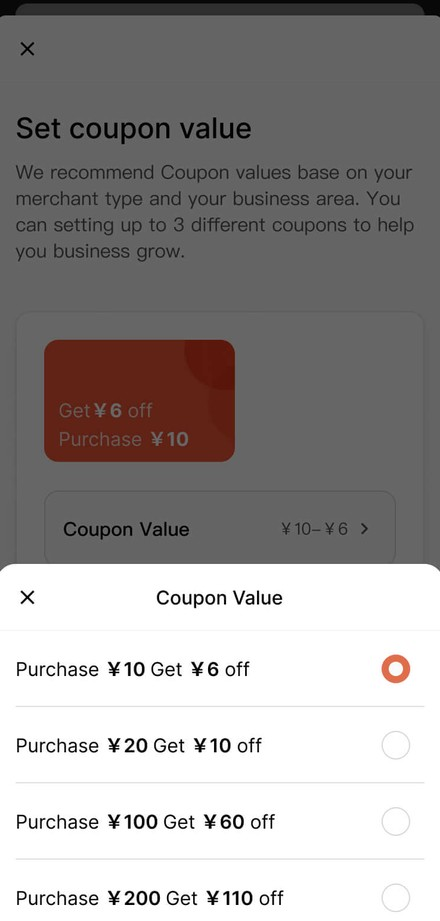
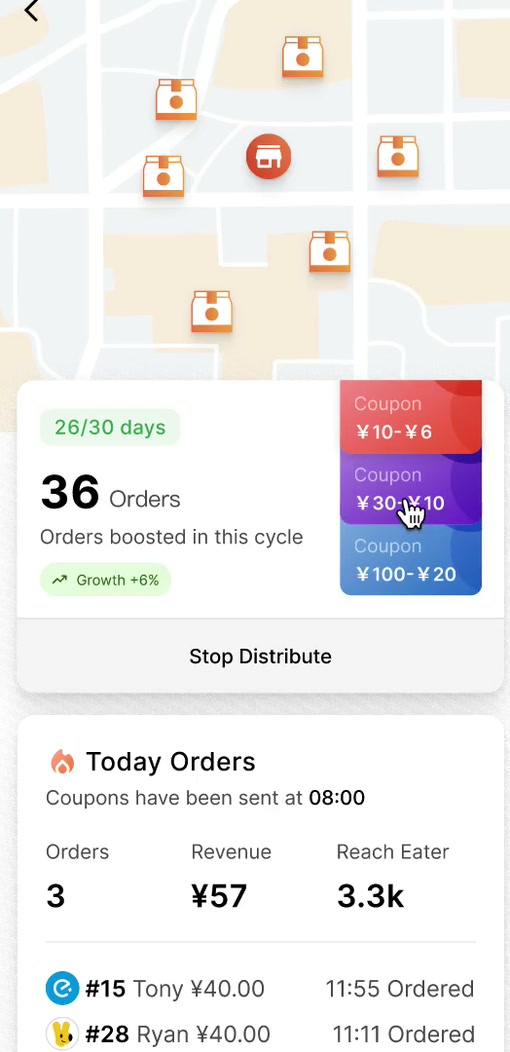
Sculpt TikCode and listing previews in relief

diff --git a/app/components/blueprint/figures.ts b/app/components/blueprint/figures.ts
@@ -370,8 +370,6 @@ function use(p: Palette) {
 
 const TV_SCREEN = "/portfolio/blueprints/tv-screen.jpg";
 const LUTRA_SCREEN = "/portfolio/blueprints/lutra-screen.jpg";
-const TIKCODE_PRINT = "/portfolio/blueprints/tikcode-code-eye.jpg";
-const WISHLIST_STAYS = ["/portfolio/blueprints/wishlist-stay-1.jpg", "/portfolio/blueprints/wishlist-stay-2.jpg"];
 
 const REMOTE_FRAME = {
   pos: [0.9, 0.62, 0.0] as Vec3,
@@ -397,6 +395,33 @@ function plinth(c: Palette): ShapeDef[] {
     { k: "slab", size: [2.9, 1.9], t: 0.1, r: 0.36, pos: [0, 0.05, 0], rot: flat() },
     { k: "slab", size: [2.6, 1.6], t: 0.012, r: 0.26, pos: [0, 0.101, 0], rot: flat(), color: c.mist },
     { k: "slab", size: [3.2, 2.2], t: 0.04, r: 0.46, pos: [0, 0.02, 0], rot: flat(), color: c.lilac },
+  ];
+}
+
+/** A sparse relief of the case study's three Code Eyes and dot pattern. */
+function tikCodeRelief(c: Palette, [x, y, z]: Vec3, pitch: number): ShapeDef[] {
+  const eyes = [[-3, 3], [3, 3], [-3, -3]];
+  const dots = [
+    [-1, 4], [1, 4], [0, 3], [-1, 2], [1, 2], [0, 1], [3, 1],
+    [-4, 0], [-2, 0], [2, 0], [4, 0], [-3, -1], [0, -1], [2, -1],
+    [4, -2], [0, -3], [2, -3], [1, -4], [4, -4],
+  ];
+  return [
+    ...eyes.flatMap(([column, row], index): ShapeDef[] => {
+      const cx = x + column * pitch;
+      const cy = y + row * pitch;
+      return [
+        { k: "slab", size: [2.2 * pitch, 2.2 * pitch], t: 0.18 * pitch, r: 0.41 * pitch,
+          pos: [cx, cy, z + 0.04 * pitch], color: index === 1 ? c.coral : c.lilac },
+        { k: "cyl", r: 0.59 * pitch, h: 0.22 * pitch, rot: FACE,
+          pos: [cx, cy, z + 0.21 * pitch], color: c.inky },
+      ];
+    }),
+    ...dots.map(([column, row], index): ShapeDef => ({
+      k: "cyl", r: 0.285 * pitch, h: 0.24 * pitch, rot: FACE,
+      pos: [x + column * pitch, y + row * pitch, z + 0.08 * pitch],
+      color: index === 4 || index === 15 ? c.coral : c.inky,
+    })),
   ];
 }
 
@@ -604,22 +629,13 @@ const BUILDERS: [Palette, (c: Palette) => Omit<FigureDef, "palette">][] = [
           finish: "screen",
           frame: TV_ANGLE,
           shapes: [
-            // A dark lip around the panel, then the picture.
-            {
-              k: "slab",
-              size: [2.16, 1.2325],
-              t: 0.003,
-              r: 0.074,
-              pos: [0, 1.465, 0.0066],
-              color: INKY,
-              finish: "soft",
-            },
+            // The picture meets the physical bezel directly.
             {
               k: "slab",
               size: [2.12, 1.1925],
               t: 0.006,
               r: 0.054,
-              pos: [0, 1.465, 0.009],
+              pos: [0, 1.465, 0.0065],
               map: TV_SCREEN,
             },
             {
@@ -916,18 +932,9 @@ const BUILDERS: [Palette, (c: Palette) => Omit<FigureDef, "palette">][] = [
             {
               k: "slab",
               size: [0.68, 1.402],
-              t: 0.003,
-              r: 0.115,
-              pos: [0, 0.741, 0.0615],
-              color: INKY,
-              finish: "soft",
-            },
-            {
-              k: "slab",
-              size: [0.66, 1.382],
               t: 0.006,
-              r: 0.1,
-              pos: [0, 0.741, 0.0635],
+              r: 0.11,
+              pos: [0, 0.741, 0.0615],
               map: LUTRA_SCREEN,
             },
           ],
@@ -1612,7 +1619,7 @@ const BUILDERS: [Palette, (c: Palette) => Omit<FigureDef, "palette">][] = [
         { id: "ground", label: "Ground", agent: 1, color: c.ground, shapes: plinth(c) },
         {
           id: "holder",
-          label: "Printed card holder",
+          label: "TikCode display stand",
           agent: 4,
           color: c.plum,
           frame: { pos: [-0.53, 0.107, -0.19], rot: [0, 0.14, 0] },
@@ -1624,30 +1631,40 @@ const BUILDERS: [Palette, (c: Palette) => Omit<FigureDef, "palette">][] = [
         },
         {
           id: "code",
-          label: "TikCode with Code Eye pattern",
+          label: "Raised Code Eyes and dots",
           agent: 2,
           color: c.cream,
           frame: { pos: [-0.53, 0.107, -0.19], rot: [0, 0.14, 0] },
           shapes: [
-            { k: "slab", size: [1.085, 1.22], t: 0.012, r: 0.085, pos: [0, 0.885, 0.08], finish: "print" },
-            { k: "slab", size: [0.9, 0.9], t: 0.006, r: 0.034, pos: [0, 0.958, 0.088], finish: "print", map: TIKCODE_PRINT },
-            { k: "slab", size: [0.69, 0.085], t: 0.006, r: 0.02, pos: [0, 0.408, 0.088], finish: "print", map: `label:TikCode|${c.cream}|${c.inky}` },
+            { k: "slab", size: [1.085, 1.22], t: 0.025, r: 0.085, pos: [0, 0.885, 0.082] },
+            ...tikCodeRelief(c, [0, 0.972, 0.0945], 0.097),
+            { k: "slab", size: [0.51, 0.112], t: 0.006, r: 0.03, pos: [0, 0.398, 0.096], finish: "print", map: `label:TikCode|${c.cream}|${c.inky}|4.55` },
           ],
         },
         {
           id: "scanner",
-          label: "Phone with matched code",
+          label: "Phone scan viewfinder",
           agent: 3,
           color: c.cream,
           frame: { pos: [0.81, 0.107, 0.38], rot: [-0.19, 0.20, 0] },
           shapes: [
             { k: "box", size: [0.26, 0.43, 0.22], pos: [0, 0.206, -0.19], rot: [-0.19, 0, 0], color: c.sand },
             { k: "slab", size: [0.62, 1.17], t: 0.079, r: 0.094, pos: [0, 0.596, 0] },
-            { k: "slab", size: [0.516, 1.066], t: 0.012, r: 0.042, pos: [0, 0.596, 0.043], color: c.inky, finish: "soft" },
-            { k: "slab", size: [0.32, 0.32], t: 0.006, r: 0.015, pos: [0, 0.765, 0.05], finish: "screen", map: TIKCODE_PRINT },
-            { k: "slab", size: [0.36, 0.116], t: 0.015, r: 0.043, pos: [0, 0.494, 0.054], color: c.lilac },
-            { k: "poly", pts: CHECK, t: 0.006, r: 0.007, pos: [0, 0.495, 0.063], color: c.inky },
-            { k: "cyl", r: 0.045, h: 0.012, pos: [0, 0.218, 0.055], rot: FACE, color: c.coral },
+            { k: "slab", size: [0.516, 1.066], t: 0.012, r: 0.042, pos: [0, 0.596, 0.043],
+              finish: "screen", map: `proc:scan-view|${c.inky}` },
+            { k: "slab", size: [0.415, 0.47], t: 0.01, r: 0.048, pos: [0, 0.692, 0.052], color: c.plum },
+            { k: "slab", size: [0.238, 0.238], t: 0.009, r: 0.031, pos: [0, 0.692, 0.06], color: c.cream },
+            ...tikCodeRelief(c, [0, 0.692, 0.0645], 0.0235),
+            ...[-1, 1].flatMap((sx) => [-1, 1].map((sy): ShapeDef => ({
+              k: "poly",
+              pts: [[0, 0], [0.063, 0], [0.063, 0.01], [0.01, 0.01], [0.01, 0.063], [0, 0.063]]
+                .map(([x, y]) => [-sx * x, -sy * y]),
+              t: 0.005,
+              r: 0.003,
+              pos: [sx * 0.157, 0.692 + sy * 0.162, 0.059],
+              color: c.white,
+            }))),
+            { k: "slab", size: [0.15, 0.013], t: 0.005, r: 0.006, pos: [0, 0.139, 0.05], color: c.lilac },
           ],
         },
         {
@@ -1904,8 +1921,7 @@ const BUILDERS: [Palette, (c: Palette) => Omit<FigureDef, "palette">][] = [
             { k: "ball", r: 0.055, pos: [0.54, 0.145, -0.29] },
           ],
         },
-        ...WISHLIST_STAYS.map((photo, index): PartDef => {
-          const selected = index === 1;
+        ...[false, true].map((selected, index): PartDef => {
           const trim = selected ? PLUM : LILAC;
           return {
             id: `stay-${index + 1}`,
@@ -1920,7 +1936,32 @@ const BUILDERS: [Palette, (c: Palette) => Omit<FigureDef, "palette">][] = [
               { k: "box", size: [0.42, 0.23, 0.27], pos: [0, 0.1, -0.18], color: SAND },
               { k: "slab", size: [0.9, 1.03], t: 0.072, r: 0.108, pos: [0, 0.525, 0], color: trim },
               { k: "slab", size: [0.825, 0.95], t: 0.012, r: 0.07, pos: [0, 0.525, 0.041] },
-              { k: "slab", size: [0.734, 0.508], t: 0.009, r: 0.047, pos: [0, 0.692, 0.05], finish: "print", map: photo },
+              { k: "slab", size: [0.734, 0.508], t: 0.023, r: 0.055, pos: [0, 0.692, 0.054], color: selected ? SAND : BLUE },
+              ...(selected ? [
+                // A room in relief: a warm recess, arch surround and soft seat.
+                { k: "slab", size: [0.316, 0.285], t: 0.028, r: 0.142, pos: [-0.055, 0.747, 0.076], color: LILAC },
+                { k: "arch", span: 0.345, rise: 0.157, tube: 0.026, pos: [-0.055, 0.768, 0.092], color: CREAM },
+                { k: "cyl", r: 0.023, h: 0.159, pos: [-0.226, 0.692, 0.092], color: CREAM },
+                { k: "cyl", r: 0.023, h: 0.141, pos: [0.116, 0.70, 0.092], color: CREAM },
+                { k: "slab", size: [0.454, 0.09], t: 0.047, r: 0.035, pos: [0.07, 0.516, 0.097], color: LILAC },
+                { k: "slab", size: [0.299, 0.1], t: 0.05, r: 0.033, pos: [0.1, 0.573, 0.107], color: PLUM, finish: "soft" },
+                { k: "slab", size: [0.321, 0.052], t: 0.041, r: 0.023, pos: [0.1, 0.543, 0.133], color: CREAM, finish: "soft" },
+                { k: "slab", size: [0.059, 0.1], t: 0.052, r: 0.023, pos: [-0.085, 0.566, 0.123], color: PLUM },
+                { k: "slab", size: [0.06, 0.101], t: 0.053, r: 0.023, pos: [0.281, 0.568, 0.12], color: PLUM },
+              ] : [
+                // A pool terrace in relief: a deck, recessed water and trees.
+                { k: "cyl", r: 0.063, h: 0.018, rot: FACE, pos: [0.229, 0.827, 0.076], color: YELLOW },
+                { k: "slab", size: [0.679, 0.245], t: 0.033, r: 0.052, pos: [0, 0.582, 0.078], color: SAND },
+                { k: "slab", size: [0.336, 0.176], t: 0.047, r: 0.052, pos: [-0.048, 0.574, 0.097], color: CREAM },
+                { k: "slab", size: [0.281, 0.124], t: 0.03, r: 0.035, pos: [-0.047, 0.575, 0.113], color: BLUE, finish: "soft" },
+                { k: "slab", size: [0.137, 0.016], t: 0.008, r: 0.008, pos: [-0.073, 0.6, 0.131], color: WHITE },
+                { k: "slab", size: [0.083, 0.013], t: 0.006, r: 0.006, pos: [0.007, 0.552, 0.13], color: WHITE },
+                { k: "cyl", r: 0.023, h: 0.147, pos: [-0.231, 0.696, 0.093], color: SAND },
+                { k: "ball", r: 0.072, pos: [-0.238, 0.786, 0.093], color: GREEN },
+                { k: "ball", r: 0.045, pos: [-0.166, 0.752, 0.097], color: PLUM },
+                { k: "slab", size: [0.075, 0.123], t: 0.024, r: 0.026, pos: [0.238, 0.579, 0.103], rot: [0, 0, -0.34], color: CREAM },
+                { k: "slab", size: [0.062, 0.103], t: 0.018, r: 0.02, pos: [0.292, 0.608, 0.103], rot: [0, 0, -0.34], color: CREAM },
+              ]) satisfies ShapeDef[],
               { k: "slab", size: [0.392, 0.044], t: 0.01, r: 0.022, pos: [-0.139, 0.355, 0.05], color: INKY },
               { k: "slab", size: [0.281, 0.026], t: 0.01, r: 0.013, pos: [-0.193, 0.284, 0.05], color: LILAC },
               { k: "slab", size: [0.27, 0.129], t: 0.016, r: 0.054, pos: [0.186, 0.17, 0.056], finish: "print",

diff --git a/app/components/blueprint/scene.tsx b/app/components/blueprint/scene.tsx
@@ -18,6 +18,7 @@ const AZ = 0.56;
 const EL = 0.5;
 const DIR = new THREE.Vector3(Math.sin(AZ) * Math.cos(EL), Math.sin(EL), Math.cos(AZ) * Math.cos(EL));
 const RIGHT = new THREE.Vector3(Math.cos(AZ), 0, -Math.sin(AZ));
+const BACK = new THREE.Vector3(-Math.sin(AZ), 0, -Math.cos(AZ));
 const direction = new THREE.Vector3();
 const cameraUp = new THREE.Vector3();
 
@@ -517,9 +518,11 @@ function Stage({ focus, reducedMotion, onReady, onPainted, onSelect, onPartEvent
         const item = build.items.find((it) => it.agent === i && !it.ended);
         if (item && buildTime >= item.tGo) {
           const rt = eng.parts[`${item.figId}/${item.partId}`];
-          v.copy(rt.anchor)
-            .addScaledVector(RIGHT, shifts.current[FIGURES.findIndex((f) => f.id === item.figId)] ?? 0)
-            .project(cam);
+          const figureIndex = FIGURES.findIndex((f) => f.id === item.figId);
+          const outer = outerRefs.current[figureIndex];
+          v.copy(rt.anchor);
+          if (outer) v.add(outer.position).sub(positions[figureIndex]);
+          v.project(cam);
           // Spread agents that share a spot so their name tags don't stack.
           tx = ((v.x + 1) / 2) * w + (i - 2) * 26;
           ty = ((1 - v.y) / 2) * h + (i % 2) * 24 - 6;
@@ -569,13 +572,18 @@ function Stage({ focus, reducedMotion, onReady, onPainted, onSelect, onPartEvent
       // much beyond that is gone.
       const shift = shifts.current[i];
       const outer = outerRefs.current[i];
-      if (outer && outer.userData.shift !== shift) {
-        outer.userData.shift = shift;
-        outer.position.copy(positions[i]).addScaledVector(RIGHT, shift);
+      const distance = i + shift / GAP - sc.pos;
+      // Recess the left preview along the floor so its base and caption sit
+      // above the project details. The focused figure stays on the main axis.
+      const recess = smooth(clamp01(-distance)) * (1 - opening);
+      const depth = recess * Math.min(92, h * 0.12) / (cam.zoom * Math.sin(elevation));
+      v.copy(positions[i]).addScaledVector(RIGHT, shift).addScaledVector(BACK, depth);
+      if (outer && outer.position.distanceToSquared(v) > 1e-7) {
+        outer.position.copy(v);
         fig.origin.value.copy(outer.position);
         dirty = true;
       }
-      const away = Math.abs(i + shift / GAP - sc.pos);
+      const away = Math.abs(distance);
       const settled = away <= 1 ? GHOST * smooth(away) : GHOST + (1 - GHOST) * smooth(Math.min(1, (away - 1) / 0.6));
       // During the opening every figure in view is an equal, light drawing.
       const fadeTo = mix(settled, away <= 3.4 ? 0.3 : 1, opening);
@@ -602,7 +610,7 @@ function Stage({ focus, reducedMotion, onReady, onPainted, onSelect, onPartEvent
       }
       const callouts = calloutRefs.current[i];
       if (callouts) callouts.visible = fade < 0.5;
-      place(eng.labelEls[`cap/${fig.def.id}`], v.copy(positions[i]).addScaledVector(RIGHT, shift).add(CAPTION_OFFSET), 1 - fade);
+      place(eng.labelEls[`cap/${fig.def.id}`], v.add(CAPTION_OFFSET), 1 - fade);
       const sway = swayRefs.current[i];
       if (!sway) return;
       for (const c of fig.def.callouts) {

diff --git a/app/components/blueprint/textures.ts b/app/components/blueprint/textures.ts
@@ -111,7 +111,21 @@ function qr(): HTMLCanvasElement {
   return c;
 }
 
-/** A TikCode-like pattern: rings of dots around a blank centre, with three markers. */
+/** The handset display carries plain type beneath the modelled viewfinder. */
+function scanView(background: string): HTMLCanvasElement {
+  const [c, g] = canvas(414, 856);
+  g.fillStyle = background;
+  g.fillRect(0, 0, c.width, c.height);
+  g.fillStyle = "#ffffff";
+  g.textAlign = "center";
+  g.textBaseline = "middle";
+  g.font = `600 47px ${SANS}`;
+  g.fillText("Scan", c.width / 2, c.height * 0.107);
+  g.font = `500 31px ${SANS}`;
+  g.fillText("Align code in frame", c.width / 2, c.height * 0.724);
+  return c;
+}
+
 function label(text: string, background: string, ink: string, aspect: number): HTMLCanvasElement {
   const [c, g] = canvas(Math.round(112 * aspect), 112);
   g.fillStyle = background;
@@ -124,7 +138,7 @@ function label(text: string, background: string, ink: string, aspect: number): H
   return c;
 }
 
-const DRAWINGS: Record<string, (ink: string) => HTMLCanvasElement> = { receipt, qr };
+const DRAWINGS: Record<string, (color: string) => HTMLCanvasElement> = { receipt, qr, "scan-view": scanView };
 
 export function getTexture(key: string): THREE.Texture {
   let tex = cache.get(key);
@@ -137,9 +151,9 @@ export function getTexture(key: string): THREE.Texture {
     const [text, background = PALETTE.cream, ink = INK, aspect = "8"] = key.slice(6).split("|");
     tex = new THREE.CanvasTexture(label(text, background, ink, Number(aspect)));
   } else {
-    // "proc:<name>" or "proc:<name>|<ink colour>".
-    const [name, ink = INK] = key.slice(5).split("|");
-    tex = new THREE.CanvasTexture(DRAWINGS[name](ink));
+    // "proc:<name>" or "proc:<name>|<colour>".
+    const [name, color = INK] = key.slice(5).split("|");
+    tex = new THREE.CanvasTexture(DRAWINGS[name](color));
   }
   // Colour maps are sRGB; a little anisotropy keeps them crisp at the
   // glancing angle the camera looks from.

diff --git a/app/components/blueprint/blueprint-stage.tsx b/app/components/blueprint/blueprint-stage.tsx
@@ -522,7 +522,7 @@ export function BlueprintStage() {
       {/* Keep project access anchored below the description or build log. */}
       <div
         inert={loader && !revealed}
-        className="pointer-events-none absolute bottom-[108px] left-[3.25rem] isolate z-20 w-[min(340px,36%)] before:absolute before:-inset-x-4 before:-inset-y-3 before:-z-10 before:bg-white before:blur-lg xl:left-[4.25rem]"
+        className="pointer-events-none absolute bottom-[108px] left-[3.25rem] z-20 w-[min(340px,36%)] xl:left-[4.25rem]"
       >
         {focused ? (
           <>

diff --git a/rules/BLUEPRINT_STAGE.md b/rules/BLUEPRINT_STAGE.md
@@ -43,7 +43,8 @@ that looks rough.
 | Matte clay | Default finish is `clay`. `soft` for small pressable things, `print` for paper, `screen` / `led` for things that glow. No metal, no gloss. |
 | Detail earns the close-up | A figure needs three scales: the big masses, the mid parts (drawer fronts, lids, rims), and the small things (pulls, grille dots, knobs, glazing bars). If a part is one plain block, it is not finished. |
 | Make the design decision visible | Start from the case study's distinctive interaction or insight. The main object should communicate it at homepage size. For a forthcoming case study, base the model on the public project description and cover. |
-| Real case-study textures | Screen and print crops are in `public/portfolio/blueprints/`. FIG. 1 uses the TV dynamic-background demo (`tv-01.mp4`), FIG. 2 uses the coupon settings in `ck-15.jpg`, FIG. 6 uses the Code Eye diagram in `tk-06.jpg`, and FIG. 7 uses two listing photos from `ab-07.jpg`. Structure and layout cases use clay components. |
+| Screen textures | FIG. 1 uses the TV dynamic-background demo (`tv-01.mp4`) and FIG. 2 uses the Order Booster demo (`ck-16.mp4`). Crop to the active UI at the aspect ratio of the model's display. Cut off the source device frame, status bar or letterboxing, and let the picture meet the single physical bezel. |
+| Detail in relief | For a motif that loses its detail at model scale, use geometry sized for the homepage. FIG. 6 keeps three distinctive Code Eyes and fewer raised dots, and repeats the same motif inside the phone's viewfinder. FIG. 7 uses a pool terrace and an arched room in relief on the two stays. |
 | Soft shadows | Shadows are strongest at the point of contact and widen with distance. A faint cool tint on the studio floor keeps the monochrome figures neutral. |
 
 ## 3. How it is built
@@ -89,8 +90,9 @@ words with four overlapping italics in two lines fought the figure) top left, po
 arrows top right, project details bottom left, the agents' dock bottom right,
 and an evenly spaced rail of project numbers along the bottom. The figure
 caption shows its reference number, and the details carry the full project
-name. Give the details a white backing that fades into the canvas so the
-neighbouring line art stays clear of the text. Anchor the case-study link
+name. Recess the left preview along the floor as it leaves centre so its
+base and caption clear the details. Keep the focused figure unobstructed
+at every viewport and during carousel movement. Anchor the case-study link
 (or "Coming soon" status) below the description and build log. It stays in
 place as the log grows and is available as soon as the page loader clears.
 Pause and Resume sit beside it during the build. Docked agents are quieter

diff --git a/.claude/skills/blueprint-figure/SKILL.md b/.claude/skills/blueprint-figure/SKILL.md
@@ -36,6 +36,8 @@ Two more that are his decisions, not style:
 - Screens show the **real UI** (a crop in `public/portfolio/blueprints/`) when
   the project is one product. When the subject is structure or layout
   (a restructure, a cross-platform system), clay blocks stand in for the UI.
+  Crop inside any frame already present in the source image. For motifs
+  that turn to noise at model scale, sculpt the key forms in relief.
 
 ## Procedure
 
